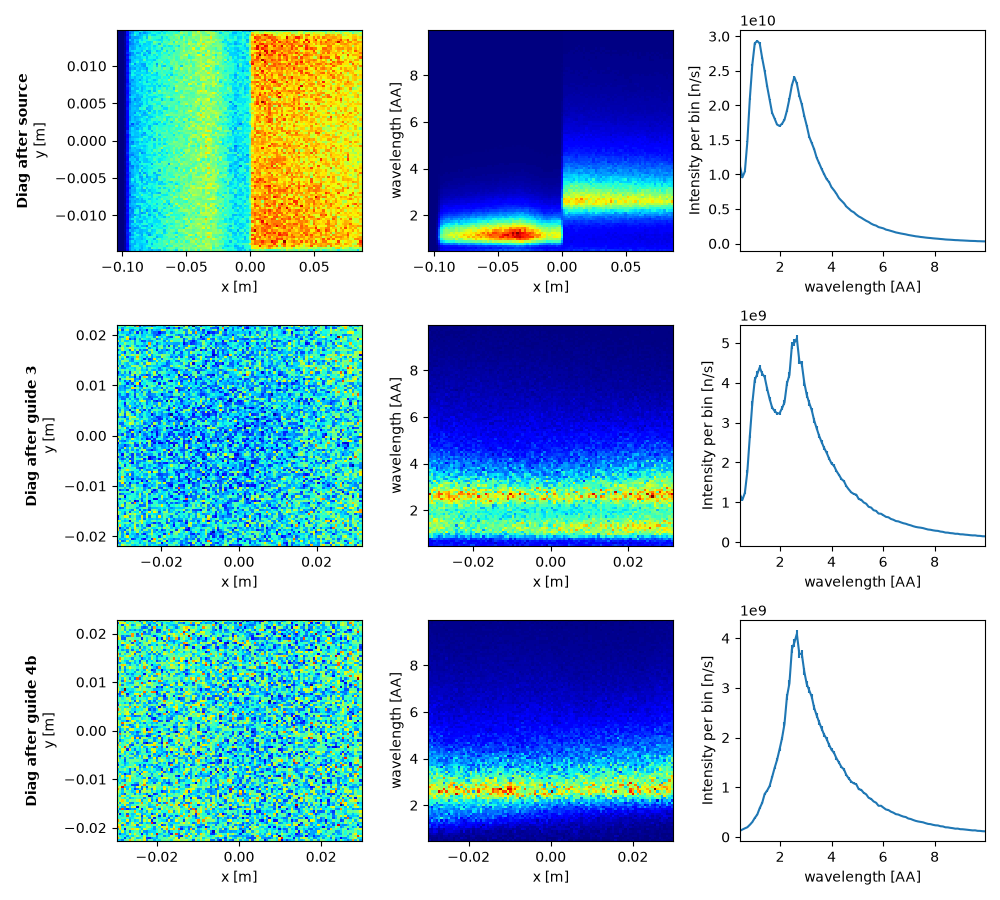
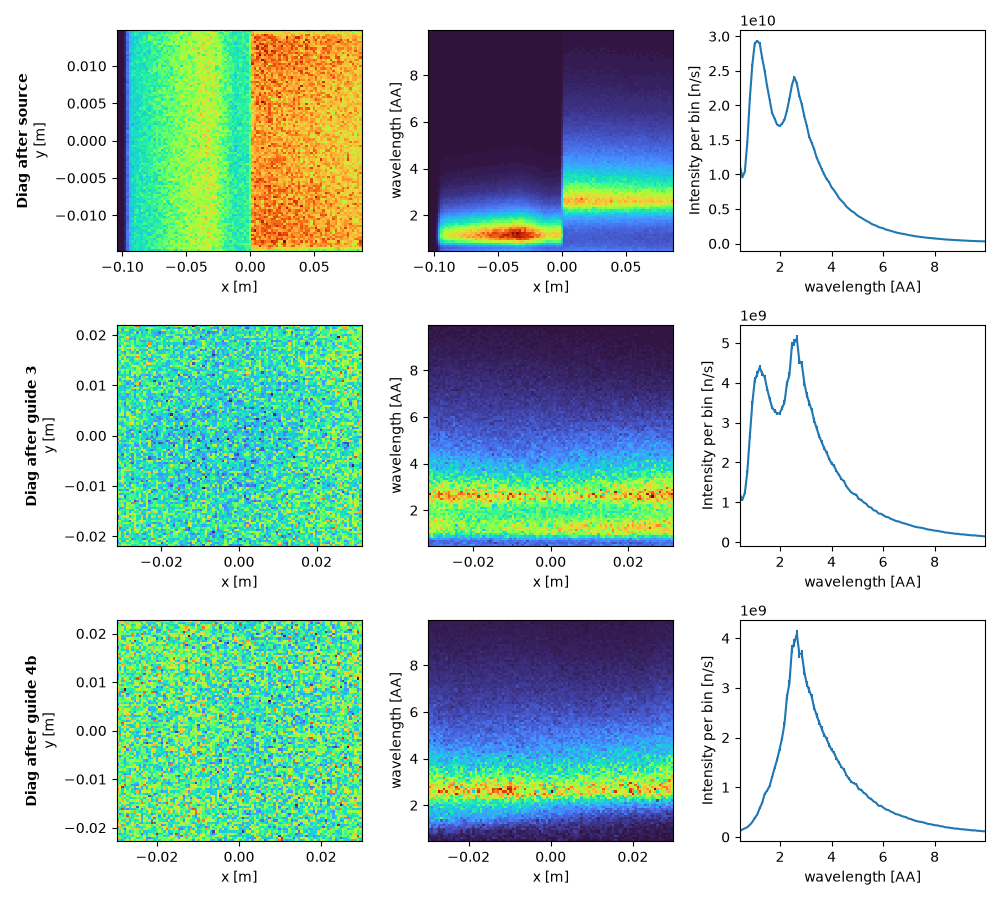
Draw McStasScript's diagnostics maps in turbo

diff --git a/src/mcdgs/diagnostics/trex_02_extraction.py b/src/mcdgs/diagnostics/trex_02_extraction.py
@@ -243,8 +243,8 @@ def diagnose_path(
     for component in ("source", "guide_3", "guide_4b"):
         # rays="all": a limited list stops early, which leaves the intensities too low
         diag.add_point(after=component, rays="all")  # pyright: ignore[reportArgumentType]
-    diag.add_view("x", "y", bins=100)
-    diag.add_view("x", "l", bins=100)
+    diag.add_view("x", "y", bins=100, colormap="turbo")  # McStasScript's default is jet
+    diag.add_view("x", "l", bins=100, colormap="turbo")
     diag.add_view("l")
     # --8<-- [end:diagnostics]
 
